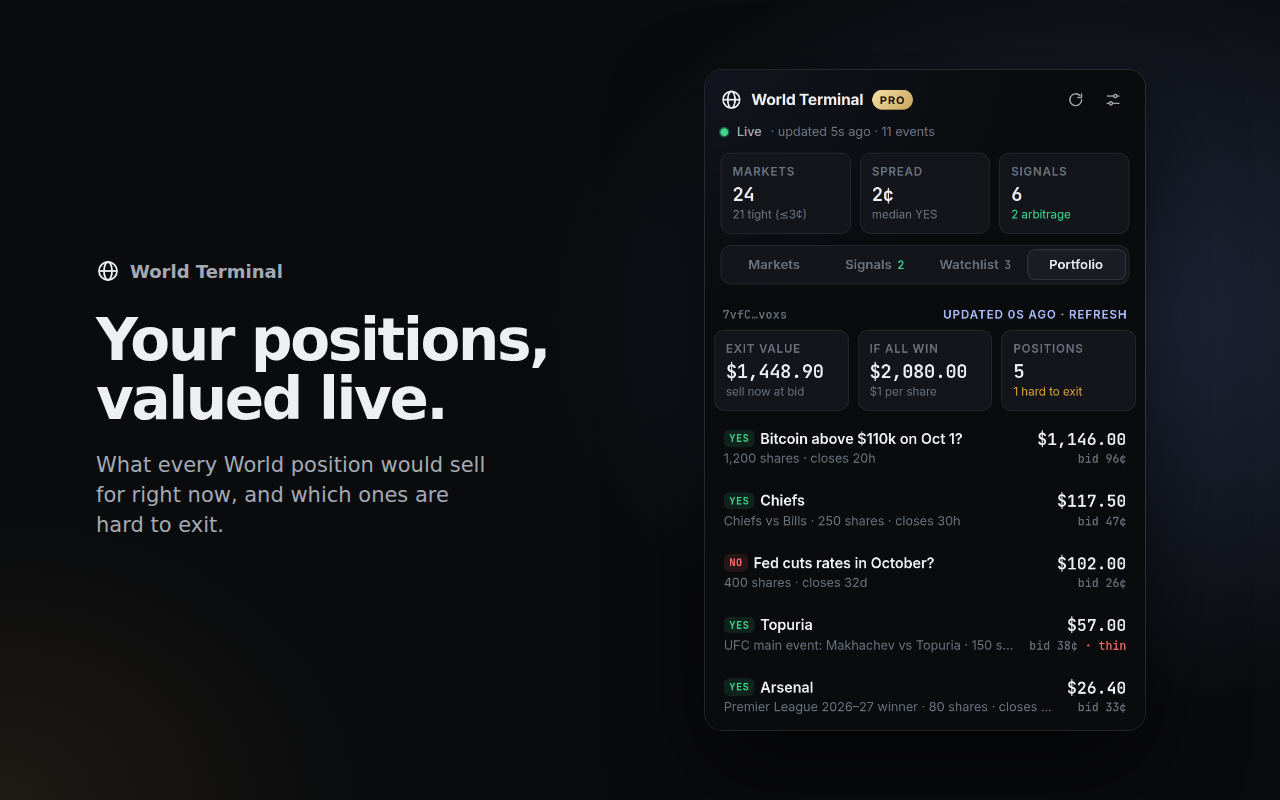
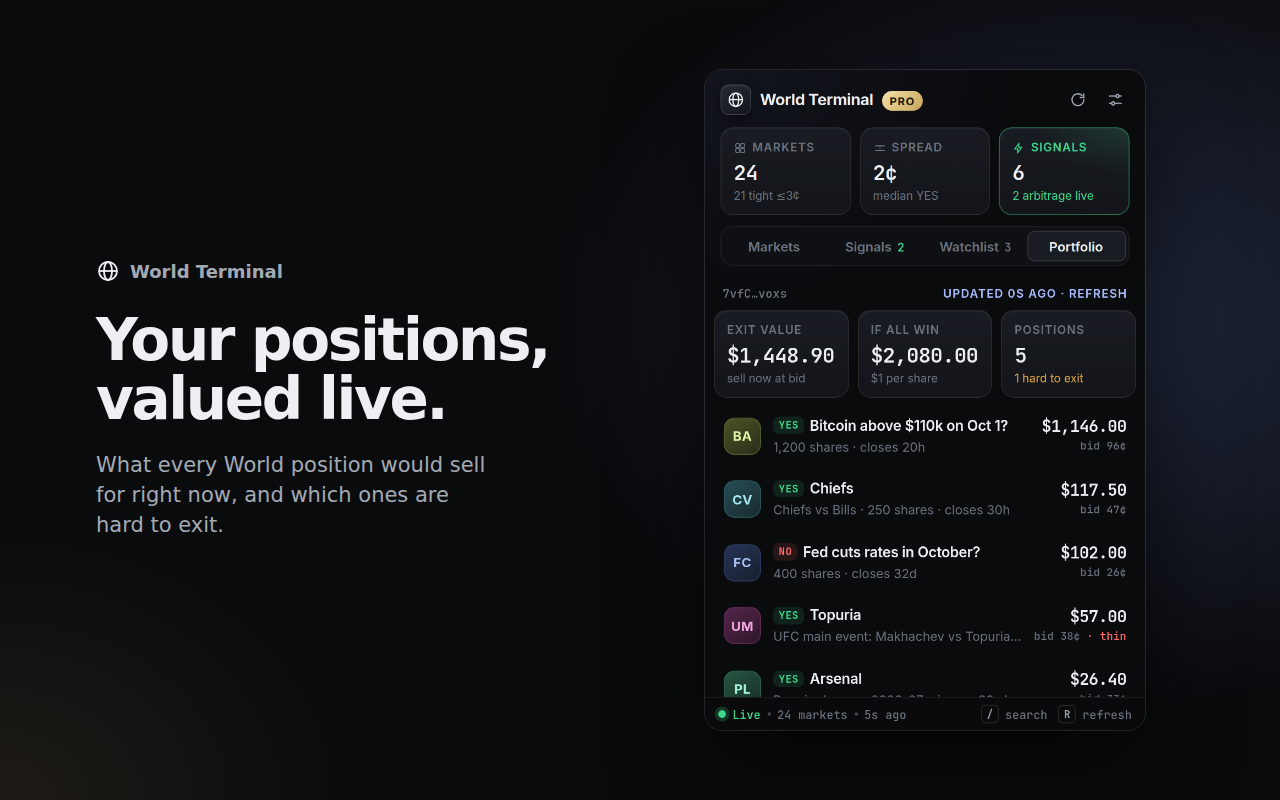
Premium popup: market images, hourly change, price flash, status bar
- Market rows: event image (or a hue-tinted monogram fallback), hourly
  change pill, implied-probability bar, tighter price block; same
  avatars in Portfolio and the market detail header
- Rows flash green/red when a price moves between refreshes
- Terminal-style status bar at the bottom (live state, market count,
  last update, data source, shortcuts) replaces the top status line
- Header logo tile; KPI tiles with icons, clickable shortcuts, and a
  glowing Signals tile when arbitrage is live
- Version 0.5.0; store screenshots refreshed

Claude-Session: https://claude.ai/code/session_0199sHwMxTfrhRMcq3g6RoSc

Changed region(s): [[0.5625, 0.0938, 0.9062, 0.9062]]

diff --git a/src/ui/app.css b/src/ui/app.css
@@ -5,10 +5,15 @@ body.panel { width: auto; height: 100vh; }
   radial-gradient(120% 60% at 0% 0%, rgba(124, 156, 255, 0.07), transparent 60%), var(--bg); }
 
 /* Header */
-.hdr { display: flex; align-items: center; justify-content: space-between; padding: 12px 14px 6px; }
+.hdr { display: flex; align-items: center; justify-content: space-between; padding: 12px 12px 10px 14px; }
 .brand { display: flex; align-items: center; gap: 8px; min-width: 0; }
-.logo { width: 20px; height: 20px; color: var(--text); flex: none; }
-.brand-name { font-weight: 700; font-size: 14px; letter-spacing: -0.01em; white-space: nowrap; }
+.logo-tile {
+  width: 28px; height: 28px; border-radius: 8px; display: grid; place-items: center; flex: none;
+  background: linear-gradient(145deg, #262b36, #12151b); border: 1px solid var(--line-2);
+  box-shadow: 0 1px 0 rgba(255, 255, 255, 0.08) inset, 0 4px 12px rgba(0, 0, 0, 0.35);
+}
+.logo { width: 16px; height: 16px; color: var(--text); }
+.brand-name { font-weight: 650; font-size: 14.5px; letter-spacing: -0.02em; white-space: nowrap; }
 .hdr-actions { display: flex; gap: 4px; }
 .icon-btn {
   width: 30px; height: 30px; display: grid; place-items: center; border-radius: 8px;
@@ -19,20 +24,37 @@ body.panel { width: auto; height: 100vh; }
 .icon-btn.spin svg { animation: spin 0.8s linear infinite; }
 @keyframes spin { to { transform: rotate(360deg); } }
 
-/* Live status */
-.live { display: flex; align-items: center; gap: 8px; padding: 0 14px 10px; font-size: 11.5px; color: var(--text-3); min-height: 22px; }
+/* Status bar */
+.statusbar {
+  display: flex; align-items: center; justify-content: space-between; gap: 8px; height: 30px; padding: 0 12px; flex: none;
+  border-top: 1px solid var(--line); background: rgba(10, 11, 13, 0.85); backdrop-filter: blur(8px);
+  font: 500 10.5px var(--mono); color: var(--text-3); letter-spacing: 0.01em;
+}
+.sb-left, .sb-right { display: flex; align-items: center; gap: 6px; white-space: nowrap; min-width: 0; }
+.sb-left b { color: var(--yes); font-weight: 600; }
+.sb-sep { width: 3px; height: 3px; border-radius: 50%; background: var(--text-3); opacity: 0.6; }
+.sb-right kbd { font: 600 9.5px var(--mono); padding: 1px 4px; border-radius: 4px; border: 1px solid var(--line-2); color: var(--text-2); margin-left: 4px; }
 .dot { width: 7px; height: 7px; border-radius: 50%; background: var(--yes); box-shadow: 0 0 0 0 rgba(61, 214, 140, 0.5); animation: pulse 2.4s infinite; flex: none; }
 .dot.warn { background: var(--warn); animation: none; }
 .dot.off { background: var(--text-3); animation: none; }
 @keyframes pulse { 0% { box-shadow: 0 0 0 0 rgba(61, 214, 140, 0.45); } 70% { box-shadow: 0 0 0 6px rgba(61, 214, 140, 0); } 100% { box-shadow: 0 0 0 0 rgba(61, 214, 140, 0); } }
-.live b { color: var(--text-2); font-weight: 500; }
 
 /* KPIs */
 .kpis { display: grid; grid-template-columns: repeat(3, 1fr); gap: 8px; padding: 0 14px 10px; }
-.kpi { background: var(--surface); border: 1px solid var(--line); border-radius: 10px; padding: 9px 10px 8px; min-width: 0; }
-.kpi-label { font-size: 10.5px; color: var(--text-3); text-transform: uppercase; letter-spacing: 0.07em; font-weight: 600; }
-.kpi-value { font: 600 17px/1.2 var(--mono); font-variant-numeric: tabular-nums; margin-top: 3px; letter-spacing: -0.02em; }
-.kpi-sub { font-size: 10.5px; color: var(--text-3); margin-top: 1px; white-space: nowrap; overflow: hidden; text-overflow: ellipsis; }
+.kpi {
+  position: relative; background: linear-gradient(180deg, var(--surface-2), var(--surface)); border: 1px solid var(--line);
+  border-radius: 12px; padding: 10px 11px 9px; min-width: 0; text-align: left; overflow: hidden;
+  box-shadow: 0 1px 0 rgba(255, 255, 255, 0.035) inset; transition: border-color 0.2s, transform 0.15s;
+}
+.kpi.click { cursor: pointer; }
+.kpi.click:hover { border-color: var(--line-2); }
+.kpi.click:active { transform: translateY(1px); }
+.kpi-label { display: flex; align-items: center; gap: 5px; font-size: 10.5px; color: var(--text-3); text-transform: uppercase; letter-spacing: 0.07em; font-weight: 600; }
+.kpi-label svg { width: 12px; height: 12px; }
+.kpi-value { font: 600 19px/1.15 var(--mono); font-variant-numeric: tabular-nums; margin-top: 5px; letter-spacing: -0.03em; }
+.kpi-sub { font-size: 10.5px; color: var(--text-3); margin-top: 2px; white-space: nowrap; overflow: hidden; text-overflow: ellipsis; }
+.kpi.hot { border-color: rgba(61, 214, 140, 0.35); background: radial-gradient(120% 90% at 100% 0%, rgba(61, 214, 140, 0.14), transparent 60%), linear-gradient(180deg, var(--surface-2), var(--surface)); }
+.kpi.hot .kpi-label, .kpi.hot .kpi-sub { color: var(--yes); }
 
 /* Banners */
 #banner:empty { display: none; }
@@ -47,7 +69,7 @@ body.panel { width: auto; height: 100vh; }
 .banner .btn { height: 30px; padding: 0 12px; }
 
 /* Tabs */
-.tabs { position: relative; display: flex; gap: 2px; margin: 0 14px; padding: 3px; border-radius: 10px; background: var(--surface); border: 1px solid var(--line); }
+.tabs { position: relative; display: flex; gap: 2px; margin: 0 14px; padding: 3px; border-radius: 11px; background: var(--bg-2); border: 1px solid var(--line); }
 .tabs button { position: relative; z-index: 1; flex: 1; height: 28px; border: 0; background: none; color: var(--text-3); font-weight: 600; font-size: 12.5px; border-radius: 7px; transition: color 0.2s; }
 .tabs button.active { color: var(--text); }
 .tab-ink { position: absolute; z-index: 0; top: 3px; bottom: 3px; border-radius: 7px; background: var(--surface-2); border: 1px solid var(--line-2); transition: left 0.28s var(--ease), width 0.28s var(--ease); }
@@ -72,28 +94,48 @@ body.panel { width: auto; height: 100vh; }
 .chip .n { font-family: var(--mono); opacity: 0.7; margin-left: 3px; }
 
 /* Scroll area */
-.scroll { flex: 1; overflow-y: auto; padding: 8px 8px 14px; scrollbar-width: thin; scrollbar-color: var(--hover) transparent; }
+.scroll { flex: 1; overflow-y: auto; padding: 6px 8px 14px; mask-image: linear-gradient(to bottom, transparent 0, #000 8px); scrollbar-width: thin; scrollbar-color: var(--hover) transparent; }
 .section-label { font-size: 10.5px; color: var(--text-3); text-transform: uppercase; letter-spacing: 0.08em; font-weight: 600; padding: 12px 8px 6px; display: flex; justify-content: space-between; }
 
 /* Market rows */
 .mrow {
-  display: grid; grid-template-columns: 1fr auto 34px; gap: 12px; align-items: center; width: 100%;
-  padding: 9px 8px; border-radius: 10px; border: 1px solid transparent; background: none; text-align: left; transition: background 0.12s;
+  display: grid; grid-template-columns: 34px 1fr auto 34px; gap: 11px; align-items: center; width: 100%;
+  padding: 9px 8px; border-radius: 12px; border: 1px solid transparent; background: none; text-align: left;
+  transition: background 0.15s, border-color 0.15s, transform 0.12s;
 }
 .mrow:hover, .mrow.sel { background: var(--surface); border-color: var(--line); }
+.mrow:active { transform: scale(0.995); }
+.avatar { width: 34px; height: 34px; border-radius: 10px; object-fit: cover; background: var(--surface-2); border: 1px solid var(--line); flex: none; }
+.avatar.mono {
+  display: grid; place-items: center; font: 700 12px var(--font); letter-spacing: 0.02em;
+  background: linear-gradient(145deg, hsl(var(--h) 38% 24%), hsl(var(--h) 32% 14%)); color: hsl(var(--h) 75% 80%);
+  border-color: hsl(var(--h) 40% 30% / 0.6);
+}
+.avatar.lg { width: 44px; height: 44px; border-radius: 12px; font-size: 14px; }
 .m-main { min-width: 0; }
-.m-title { font-weight: 600; font-size: 13px; white-space: nowrap; overflow: hidden; text-overflow: ellipsis; display: flex; align-items: center; gap: 5px; }
+.m-title { font-weight: 600; font-size: 13px; letter-spacing: -0.01em; white-space: nowrap; overflow: hidden; text-overflow: ellipsis; display: flex; align-items: center; gap: 5px; }
 .m-title .star { color: var(--warn); font-size: 11px; }
-.m-meta { font-size: 11.5px; color: var(--text-3); white-space: nowrap; overflow: hidden; text-overflow: ellipsis; margin-top: 1px; }
-.m-price { text-align: right; }
-.m-yes { font: 600 15px/1.1 var(--mono); font-variant-numeric: tabular-nums; }
-.m-book { font: 500 10.5px var(--mono); color: var(--text-3); margin-top: 2px; white-space: nowrap; }
+.m-meta { font-size: 11.5px; color: var(--text-3); white-space: nowrap; overflow: hidden; text-overflow: ellipsis; margin-top: 2px; }
+.m-price { display: grid; justify-items: end; gap: 3px; }
+.m-top { display: flex; align-items: center; gap: 6px; }
+.m-yes { font: 600 15px/1 var(--mono); font-variant-numeric: tabular-nums; letter-spacing: -0.03em; }
+.chg { font: 600 9.5px/1 var(--mono); padding: 3px 4px; border-radius: 5px; }
+.chg.up { color: var(--yes); background: var(--yes-soft); }
+.chg.down { color: var(--no); background: var(--no-soft); }
+.chg.flat { color: var(--text-3); background: var(--hover); }
+.prob { width: 64px; height: 3px; border-radius: 3px; background: var(--hover); overflow: hidden; }
+.prob span { display: block; height: 100%; border-radius: 3px; background: linear-gradient(90deg, rgba(61, 214, 140, 0.55), var(--yes)); }
+.m-book { font: 500 10px var(--mono); color: var(--text-3); white-space: nowrap; }
 .m-book .sp-tight { color: var(--yes); }
 .m-book .sp-wide { color: var(--no); }
 .ring { width: 34px; height: 34px; position: relative; display: grid; place-items: center; }
 .ring svg { position: absolute; inset: 0; transform: rotate(-90deg); }
 .ring span { font: 600 11px var(--mono); position: relative; }
 .ring .track { stroke: var(--line-2); }
+.mrow.flash-up { animation: flash-up 1.5s var(--ease); }
+.mrow.flash-down { animation: flash-down 1.5s var(--ease); }
+@keyframes flash-up { 0% { background: rgba(61, 214, 140, 0.18); } 100% { background: transparent; } }
+@keyframes flash-down { 0% { background: rgba(255, 107, 107, 0.18); } 100% { background: transparent; } }
 
 /* Skeleton */
 .skel { height: 52px; margin: 4px 0; border-radius: 10px; background: linear-gradient(90deg, var(--surface) 0%, var(--surface-2) 50%, var(--surface) 100%); background-size: 200% 100%; animation: shimmer 1.4s infinite; }
@@ -224,7 +266,8 @@ body.panel { width: auto; height: 100vh; }
 
 .pf-kpis { padding: 0 0 6px; }
 .pf-form { display: flex; gap: 6px; padding: 0 8px; }
-.pf-row { grid-template-columns: 1fr auto; }
+.pf-row { grid-template-columns: 34px 1fr auto; }
+.sheet-title { display: flex; gap: 12px; align-items: center; min-width: 0; }
 .pf-error { margin: 4px 8px 8px; padding: 9px 11px; border-radius: 10px; background: var(--no-soft); color: var(--no); font-size: 12px; }
 .side-pill { font: 700 9.5px/1 var(--mono); padding: 3px 5px; border-radius: 5px; letter-spacing: 0.04em; flex: none; }
 .side-pill.yes { background: var(--yes-soft); color: var(--yes); }

diff --git a/src/ui/app.js b/src/ui/app.js
@@ -45,6 +45,9 @@ const state = {
   selected: -1,
   sheet: null, // {type: "market"|"unlock"|"settings"|"share", ...}
   portfolio: { loading: false, data: null, error: null },
+  moves: {}, // ticker -> mid change vs ~1h ago
+  flash: new Map(), // ticker -> "up" | "down" for rows whose price just changed
+  prevMids: null,
 };
 
 // ---------- tiny DOM helpers ----------
@@ -75,6 +78,9 @@ const ICONS = {
   crown: '<path d="M4 17.5 3 7.5l5 4 4-6.5 4 6.5 5-4-1 10z" fill="currentColor"/><rect x="4" y="18.5" width="16" height="2" rx="1" fill="currentColor"/>',
   radar: '<circle cx="12" cy="12" r="8.5" fill="none" stroke="currentColor" stroke-width="1.6"/><circle cx="12" cy="12" r="4.5" fill="none" stroke="currentColor" stroke-width="1.6"/><path d="M12 12 18 6" stroke="currentColor" stroke-width="1.6" stroke-linecap="round"/>',
   share: '<path d="M12 15V4M7.5 8.5 12 4l4.5 4.5M5 13v5.5A1.5 1.5 0 0 0 6.5 20h11a1.5 1.5 0 0 0 1.5-1.5V13" fill="none" stroke="currentColor" stroke-width="1.8" stroke-linecap="round" stroke-linejoin="round"/>',
+  grid: '<rect x="4" y="4" width="7" height="7" rx="1.8" fill="none" stroke="currentColor" stroke-width="1.8"/><rect x="13" y="4" width="7" height="7" rx="1.8" fill="none" stroke="currentColor" stroke-width="1.8"/><rect x="4" y="13" width="7" height="7" rx="1.8" fill="none" stroke="currentColor" stroke-width="1.8"/><rect x="13" y="13" width="7" height="7" rx="1.8" fill="none" stroke="currentColor" stroke-width="1.8"/>',
+  spread: '<path d="M4 8h16M4 16h16" stroke="currentColor" stroke-width="1.8" stroke-linecap="round"/><path d="M12 8v8" stroke="currentColor" stroke-width="1.8" stroke-dasharray="2 2.5"/>',
+  bolt: '<path d="M13 3 5 13.5h6L10 21l8-10.5h-6z" fill="none" stroke="currentColor" stroke-width="1.8" stroke-linejoin="round"/>',
   trash: '<path d="M5 7h14M10 7V5h4v2M7 7l1 12h8l1-12" fill="none" stroke="currentColor" stroke-width="1.7" stroke-linecap="round" stroke-linejoin="round"/>',
 };
 const icon = (name) => h("svg", { viewBox: "0 0 24 24", "aria-hidden": "true", html: ICONS[name] });
@@ -138,10 +144,16 @@ function renderHeader() {
 function renderLive() {
   const s = state.status;
   const el = $("#live");
-  if (!state.loaded) return el.replaceChildren(h("span", { class: "dot off" }), "Loading…");
-  if (!s || s.state === "auth") return el.replaceChildren(h("span", { class: "dot warn" }), "Not connected to World");
-  if (s.state === "error") return el.replaceChildren(h("span", { class: "dot warn" }), `Update failed · retrying · last good ${ago(state.rowsAt)}`);
-  el.replaceChildren(h("span", { class: "dot" }), h("b", {}, "Live"), ` · updated ${ago(s.at)} · ${s.events} events${s.source === "backend" ? " · cloud" : ""}`);
+  const left = h("div", { class: "sb-left" });
+  if (!state.loaded) left.append(h("span", { class: "dot off" }), "Loading…");
+  else if (!s || s.state === "auth") left.append(h("span", { class: "dot warn" }), "Not connected to World");
+  else if (s.state === "error") left.append(h("span", { class: "dot warn" }), `Retrying · last update ${ago(state.rowsAt)}`);
+  else {
+    const src = { relay: "via world.xyz", backend: "cloud" }[s.source];
+    left.append(h("span", { class: "dot" }), h("b", {}, "Live"), h("span", { class: "sb-sep" }), `${compact(s.markets)} markets`, h("span", { class: "sb-sep" }), ago(s.at));
+    if (src) left.append(h("span", { class: "sb-sep" }), src);
+  }
+  el.replaceChildren(left, h("div", { class: "sb-right" }, h("kbd", {}, "/"), "search", h("kbd", {}, "R"), "refresh"));
 }
 
 function renderKpis() {
@@ -149,12 +161,29 @@ function renderKpis() {
   const o = state.opportunities;
   const arbs = o ? o.underround.length + o.complement.length : 0;
   const signals = o ? arbs + o.favorites.length + o.movers.length : 0;
-  const tile = (label, value, sub) =>
-    h("div", { class: "kpi" }, h("div", { class: "kpi-label" }, label), h("div", { class: "kpi-value" }, value), h("div", { class: "kpi-sub" }, sub));
+  const tile = (ic, label, value, sub, { hot = false, onclick } = {}) =>
+    h(
+      onclick ? "button" : "div",
+      { class: `kpi${hot ? " hot" : ""}${onclick ? " click" : ""}`, onclick },
+      h("div", { class: "kpi-label" }, icon(ic), label),
+      h("div", { class: "kpi-value" }, value),
+      h("div", { class: "kpi-sub" }, sub),
+    );
   $("#kpis").replaceChildren(
-    tile("Markets", s ? compact(s.markets) : "—", s ? `${compact(s.tightMarkets)} tight (≤3¢)` : "live on World"),
-    tile("Spread", s?.medianSpread != null ? cents1(s.medianSpread) : "—", "median YES"),
-    tile("Signals", o ? String(signals) : "—", o ? (arbs ? h("span", { class: "yes" }, `${arbs} arbitrage`) : "no arbitrage now") : "scanning"),
+    tile("grid", "Markets", s ? compact(s.total || s.markets) : "—", s ? `${compact(s.tightMarkets)} tight ≤3¢` : "live on World", {
+      onclick: s
+        ? () => {
+            state.chip = "tight";
+            setTab("markets");
+            renderChips();
+          }
+        : null,
+    }),
+    tile("spread", "Spread", s?.medianSpread != null ? cents1(s.medianSpread) : "—", "median YES"),
+    tile("bolt", "Signals", o ? String(signals) : "—", o ? (arbs ? `${arbs} arbitrage live` : "no arbitrage now") : "scanning", {
+      hot: arbs > 0,
+      onclick: o ? () => setTab("signals") : null,
+    }),
   );
 }
 
@@ -282,15 +311,36 @@ function filteredRows() {
     .sort(SORTS[state.sort] || SORTS.liquidity);
 }
 
+// Event image, or a monogram tinted by a hash of the event so each event keeps its color.
+function avatar(r, size = "") {
+  const seed = [...(r.eventTicker || r.ticker || "")].reduce((a, c) => (a * 31 + c.charCodeAt(0)) >>> 0, 7);
+  const hue = seed % 360;
+  const letters = (r.eventTitle || r.title || "?").replace(/[^\p{L}\p{N} ]/gu, "").split(/\s+/).filter(Boolean).slice(0, 2).map((w) => w[0]).join("").toUpperCase();
+  const mono = h("span", { class: `avatar mono ${size}`, style: `--h:${hue}` }, letters || "?");
+  if (!r.imageUrl) return mono;
+  const img = h("img", { class: `avatar ${size}`, src: r.imageUrl, alt: "", loading: "lazy", referrerpolicy: "no-referrer" });
+  img.addEventListener("error", () => img.replaceWith(mono), { once: true });
+  return img;
+}
+
+function changePill(ticker) {
+  const d = state.moves[ticker];
+  if (d === undefined || Math.abs(d) < 0.005) return null;
+  return h("span", { class: `chg ${d > 0 ? "up" : "down"}` }, `${d > 0 ? "▲" : "▼"}${Math.abs(Math.round(d * 100)) || "<1"}¢`);
+}
+
 function marketRow(r, i) {
   const spreadClass = r.spread === null ? "" : r.spread <= 0.03 ? "sp-tight" : r.spread >= 0.08 ? "sp-wide" : "";
   const watching = state.watchlist.includes(r.ticker);
-  const sub = [r.eventTitle !== r.title ? r.eventTitle : null, r.hoursToClose !== null ? `closes ${closesIn(r.hoursToClose)}` : null, `vol ${compact(r.volume)}`]
+  const sub = [r.eventTitle !== r.title ? r.eventTitle : null, r.hoursToClose !== null ? closesIn(r.hoursToClose) : null, `vol ${compact(r.volume)}`]
     .filter(Boolean)
     .join(" · ");
+  const price = r.yesAsk ?? r.mid;
+  const flash = state.flash.get(r.ticker);
   return h(
     "button",
-    { class: `mrow${state.selected === i ? " sel" : ""}`, "data-i": i, onclick: () => openSheet({ type: "market", ticker: r.ticker }) },
+    { class: `mrow${state.selected === i ? " sel" : ""}${flash ? ` flash-${flash}` : ""}`, "data-i": i, onclick: () => openSheet({ type: "market", ticker: r.ticker }) },
+    avatar(r),
     h(
       "div",
       { class: "m-main" },
@@ -300,8 +350,9 @@ function marketRow(r, i) {
     h(
       "div",
       { class: "m-price" },
-      h("div", { class: "m-yes" }, cents(r.yesAsk ?? r.mid)),
-      h("div", { class: "m-book" }, `${cents(r.yesBid)}/${cents(r.yesAsk)} · `, h("span", { class: spreadClass }, cents(r.spread))),
+      h("div", { class: "m-top" }, changePill(r.ticker), h("span", { class: "m-yes" }, cents(price))),
+      h("div", { class: "prob", title: `${Math.round((price ?? 0) * 100)}% implied` }, h("span", { style: `width:${Math.round((price ?? 0) * 100)}%` })),
+      h("div", { class: "m-book" }, `${cents(r.yesBid)}–${cents(r.yesAsk)} · `, h("span", { class: spreadClass }, cents(r.spread))),
     ),
     ring(r.score),
   );
@@ -568,6 +619,7 @@ function renderPortfolio(view) {
       h(
         "button",
         { class: "mrow pf-row", onclick: () => openSheet({ type: "market", ticker: pos.ticker }) },
+        avatar(state.rows.find((x) => x.ticker === pos.ticker) || pos),
         h(
           "div",
           { class: "m-main" },
@@ -730,7 +782,12 @@ function marketSheet(ticker) {
   );
 
   return [
-    sheetHead(r.title, r.eventTitle !== r.title ? r.eventTitle : r.category),
+    h(
+      "div",
+      { class: "sheet-head" },
+      h("div", { class: "sheet-title" }, avatar(r, "lg"), h("div", { style: "min-width:0" }, h("h2", {}, r.title), h("p", {}, r.eventTitle !== r.title ? r.eventTitle : categoryName(r.category)))),
+      h("button", { class: "icon-btn", "aria-label": "Close", onclick: closeSheet }, icon("close")),
+    ),
     h(
       "div",
       { class: "spark" },
@@ -1235,7 +1292,32 @@ async function load() {
     unlock: unlock?.unlock || null,
     loaded: true,
   });
+  computeMoves();
   renderAll();
+  if (state.flash.size) setTimeout(() => state.flash.clear(), 1600);
+}
+
+// Hourly change per market from the stored snapshots, and which prices moved since the last render.
+function computeMoves() {
+  const now = state.status?.at || Date.now();
+  const snaps = state.snapshots || [];
+  const base = [...snaps].reverse().find((x) => now - x.t >= 55 * 60 * 1000) || snaps[0];
+  const moves = {};
+  const mids = {};
+  for (const r of state.rows) {
+    if (r.mid === null || r.mid === undefined) continue;
+    mids[r.ticker] = r.mid;
+    const b = base?.mids?.[r.ticker];
+    if (typeof b === "number" && base.t < now) moves[r.ticker] = r.mid - b;
+  }
+  state.moves = moves;
+  if (state.prevMids) {
+    for (const [t, m] of Object.entries(mids)) {
+      const prev = state.prevMids[t];
+      if (typeof prev === "number" && Math.abs(m - prev) >= 0.005) state.flash.set(t, m > prev ? "up" : "down");
+    }
+  }
+  state.prevMids = mids;
 }
 
 let pending;

diff --git a/src/ui/app.html b/src/ui/app.html
@@ -11,11 +11,13 @@
     <div class="app" id="app">
       <header class="hdr">
         <div class="brand">
-          <svg class="logo" viewBox="0 0 24 24" aria-hidden="true">
-            <circle cx="12" cy="12" r="9" fill="none" stroke="currentColor" stroke-width="1.8" />
-            <ellipse cx="12" cy="12" rx="4" ry="9" fill="none" stroke="currentColor" stroke-width="1.8" />
-            <path d="M3 12h18" stroke="currentColor" stroke-width="1.8" />
-          </svg>
+          <span class="logo-tile" aria-hidden="true">
+            <svg class="logo" viewBox="0 0 24 24">
+              <circle cx="12" cy="12" r="9" fill="none" stroke="currentColor" stroke-width="1.8" />
+              <ellipse cx="12" cy="12" rx="4" ry="9" fill="none" stroke="currentColor" stroke-width="1.8" />
+              <path d="M3 12h18" stroke="currentColor" stroke-width="1.8" />
+            </svg>
+          </span>
           <span class="brand-name">World Terminal</span>
           <span id="plan"></span>
         </div>
@@ -25,8 +27,6 @@
           <button class="icon-btn" id="btn-settings" title="Settings" aria-label="Settings"></button>
         </div>
       </header>
-
-      <div class="live" id="live"></div>
 
       <div class="kpis" id="kpis"></div>
 
@@ -60,6 +60,8 @@
       <main class="scroll" id="scroll">
         <div id="view"></div>
       </main>
+
+      <footer class="statusbar" id="live" aria-live="polite"></footer>
     </div>
 
     <div class="sheet-backdrop" id="backdrop" hidden></div>
